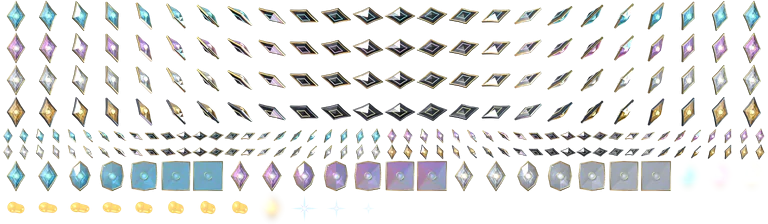
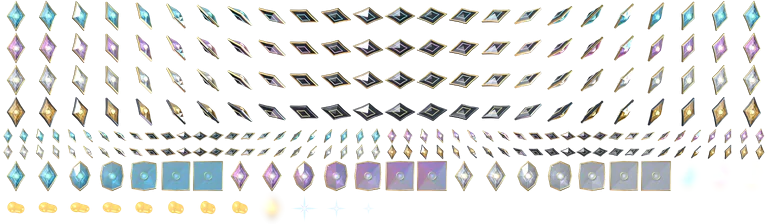
fix(far-from): kit B's back reads black-silver, not white glare
The pavilion's outside darkens (0.09-0.12 base, roughness 0.34) and the gold
collar softens (roughness 0.30), so f9-f15 show a black-silver back with its
lit seam and the silhouette's collar wall keeps its light. Re-rendered;
cells.webp 52,018 B.

Claude-Session: https://claude.ai/code/session_01JNjPvM87Vuiq6R7HiPhKpa

diff --git a/src/lib/far-from-nanites.ts b/src/lib/far-from-nanites.ts
@@ -6,7 +6,7 @@
 // frames, tone slots and sub-sheets), so the swarm draws both kinds mixed
 // through the same sprite code. Kit B has no comets of its own: draw kit A's
 // (REXONANCE_NANITE_COMETS, the same rows for the same tone slots). 1 file,
-// 50960 bytes.
+// 52018 bytes.
 
 /** The kit's folder (public/). */
 export const FAR_FROM_NANITE_DIR = "/far-from-nanites-20261022" as const;
@@ -69,6 +69,6 @@ export const FAR_FROM_NANITE_ASSETS = [FAR_FROM_NANITE_CELLS.src] as const;
 
 /** The files' bytes. */
 export const FAR_FROM_NANITE_BYTES = {
-  cells: 50960,
-  total: 50960,
+  cells: 52018,
+  total: 52018,
 } as const;

diff --git a/scripts/blender/farfrom_nanite_cells.py b/scripts/blender/farfrom_nanite_cells.py
@@ -600,12 +600,12 @@ for obj, slots in ((body, 2), (collar, 1), (core, 1), (glow, 1), (ring, 1), (sea
         obj.data.materials.append(None)
 
 metals = {
-    "gold": principled("gold", GOLD, 1.0, 0.22),
+    "gold": principled("gold", GOLD, 1.0, 0.30),
     "silver": principled("black-silver", BLACK_SILVER, 1.0, 0.22),
 }
 for tone, spec in TONES.items():
     body.data.materials[0] = crystal(f"{tone}-crystal", spec["tint"], spec["film"], spec["facets"], spec["rainbow"])
-    body.data.materials[1] = two_sided(f"{tone}-pavilion", inside=(spec["inside"], 0.45), outside=(BLACK_SILVER, 0.24))
+    body.data.materials[1] = two_sided(f"{tone}-pavilion", inside=(spec["inside"], 0.45), outside=((0.09, 0.10, 0.12), 0.34))
     collar.data.materials[0] = metals[spec["collar"]]
     ring.data.materials[0] = metals[spec["ring"]]
     core_material = emitter(f"{tone}-core", spec["glow"], spec["peak"], radius=CORE_R)
